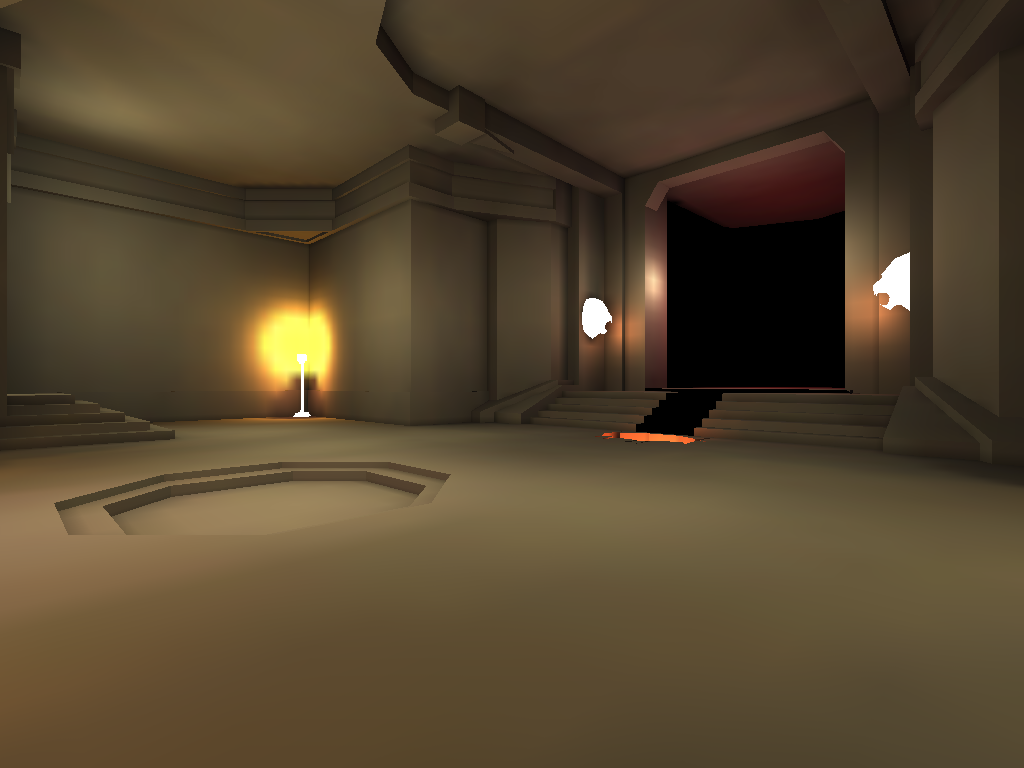
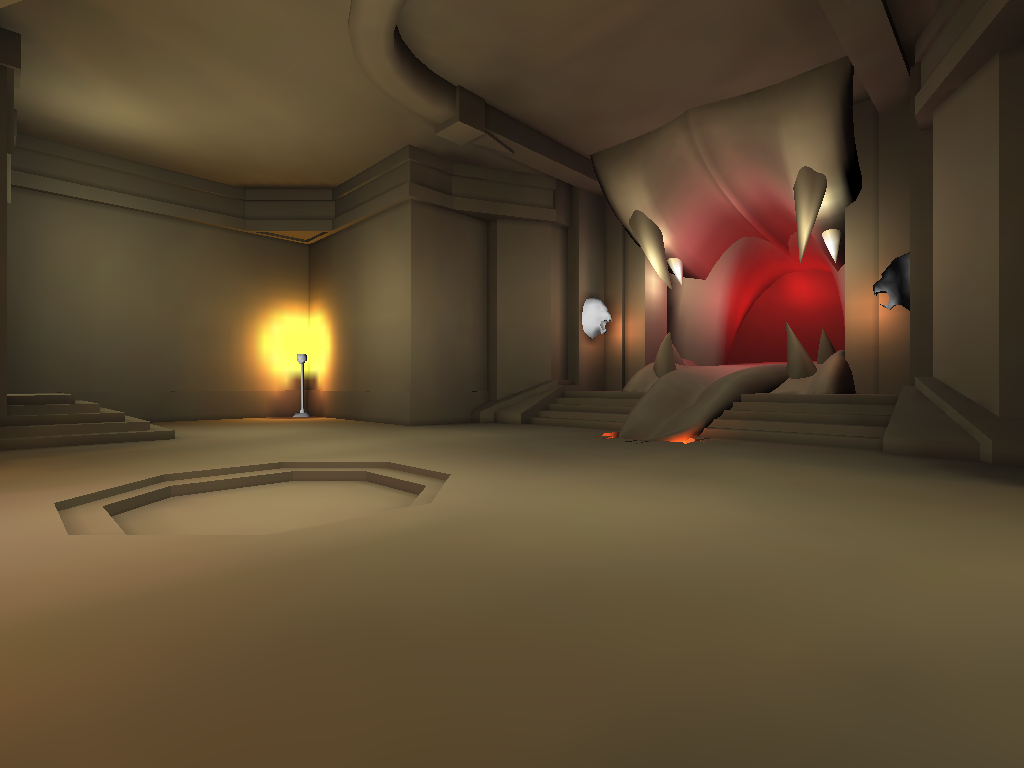
Improved bezier patches

diff --git a/src/bsp.c b/src/bsp.c
@@ -209,14 +209,15 @@ int setup_opengl(int w, int h)
 	return 0;
 }
 /***
+Curves
 	1	2	3
-	+---c---+---c---+
-	|   |   |   |   |
-	|   |   |   |   |
-	c---c---c---c---c
-	|   |   |   |   |
-	|   |   |   |   |
-	c---c---c---c---c
+C0	+---c---+
+	|   |   |
+	|   |   |
+C1	c---c---c
+	|   |   |
+	|   |   |
+C2	+---c---+
 
 	0	1	2
 	0.--1---2.--3---4.
@@ -233,11 +234,175 @@ int setup_opengl(int w, int h)
 	|   |   |   |   |
 	20.-21--22.-23--24.
 ***/
+#define LERP(a,b,t) (a+(b-a)*t)
+
+void curve(float c[3], struct bsp_vertex *v, float t)
+{
+	float cp[3], sp[3], ep[3];
+	float s2c[3]; // start to control
+	float c2e[3]; // control to end
+
+	// control point
+	cp[0] = v[1].position[0];
+	cp[1] = v[1].position[1];
+	cp[2] = v[1].position[2];
+	// start point
+	sp[0] = v[0].position[0];
+	sp[1] = v[0].position[1];
+	sp[2] = v[0].position[2];
+      	// end point
+	ep[0] = v[2].position[0];
+	ep[1] = v[2].position[1];
+	ep[2] = v[2].position[2];
+
+	s2c[0] = LERP(sp[0], cp[0], t);
+	s2c[1] = LERP(sp[1], cp[1], t);
+	s2c[2] = LERP(sp[2], cp[2], t);
+	c2e[0] = LERP(cp[0], ep[0], t);
+	c2e[1] = LERP(cp[1], ep[1], t);
+	c2e[2] = LERP(cp[2], ep[2], t);
+
+	c[0] = LERP(s2c[0], c2e[0], t);
+	c[1] = LERP(s2c[1], c2e[1], t);
+	c[2] = LERP(s2c[2], c2e[2], t);
+}
+
+void texlerp(float tc0[2], float tc1[2], float tc2[2], float tc3[2]
+		, float fx, float fy, float *s, float *t)
+{
+	/***
+	0-----1
+	|     |
+	|     |
+     fy |-----| fy
+	|     |
+	3-----2
+	***/
+
+	float lefty,righty;
+	float topx, bottomx;
+
+	lefty = LERP(tc0[1], tc3[1], fy);
+	righty = LERP(tc1[1], tc2[1], fy);
+	topx = LERP(tc0[0], tc1[0], fx);
+	bottomx = LERP(tc3[0], tc2[0], fx);
+	*s = LERP(topx, bottomx, fy);
+	*t = LERP(lefty, righty, fx);
+}
+
+#define STEPS 8
+void drawPatch2(int w, int h, struct bsp_vertex *verts, int n_verts)
+{
+	int pw = (w-1)/2;
+	int ph = (h-1)/2;
+	int i,j;
+	float step_size = 1.0f /(STEPS);
+
+//glColor3f(1,0,0);
+	glPointSize(4);
+	glBegin(GL_TRIANGLES);
+	for (i=0; i<pw*ph; i++) {
+		int px = i%pw;
+		int py = i/pw;
+		int pind_x = px*2;
+		int pind_y = (py*2)*w;
+		int index = pind_x+pind_y;
+		struct bsp_vertex *v;
+		struct bsp_vertex *ov[4]; /*original 4 verts at corners of patch*/
+		ov[3] = &verts[index];
+		ov[2] = &verts[index+2];
+		ov[1] = &verts[index+2+(w*2)];
+		ov[0] = &verts[index+(w*2)];
+
+		v = &verts[index];
+		glDisable(GL_CULL_FACE);
+
+		for (j=0; j<STEPS*STEPS; j++) {
+			float fx[4];
+			float fy[4];
+			fx[0] = (j%STEPS) * step_size;
+			fx[1] = (j%STEPS) * step_size+step_size;
+			fx[2] = (j%STEPS) * step_size+step_size;
+			fx[3] = (j%STEPS) * step_size;
+
+			fy[0] = (j/STEPS) * step_size;
+			fy[1] = (j/STEPS) * step_size;
+			fy[2] = (j/STEPS) * step_size+step_size;
+			fy[3] = (j/STEPS) * step_size+step_size;
+			/***
+				0 1 2
+				3 4 5
+				6 7 8
+			***/
+			float c[3][3];
+			float f[4][3];
+			struct bsp_vertex cv[3];
+			int k;
+			for (k=0;k<4;k++) {
+				float l_fx = fx[k];
+				float l_fy = fy[k];
+				curve(c[0], &v[0], l_fx);
+				curve(c[1], &v[0+w], l_fx);
+				curve(c[2], &v[0+w*2], l_fx);
+				cv[0].position[0] = c[0][0];
+				cv[0].position[1] = c[0][1];
+				cv[0].position[2] = c[0][2];
+				cv[1].position[0] = c[1][0];
+				cv[1].position[1] = c[1][1];
+				cv[1].position[2] = c[1][2];
+				cv[2].position[0] = c[2][0];
+				cv[2].position[1] = c[2][1];
+				cv[2].position[2] = c[2][2];
+				curve(f[k], cv, l_fy);
+			}
+			//Texture coords
+			float tc0[2];
+			float tc1[2];
+			float tc2[2];
+			float tc3[2];
+			float tcf[4][2];
+			float s[4],t[4];
+
+			tc3[0] = ov[0]->texcoord[1][0];
+			tc3[1] = ov[0]->texcoord[1][1];
+			tc2[0] = ov[1]->texcoord[1][0];
+			tc2[1] = ov[1]->texcoord[1][1];
+			tc1[0] = ov[2]->texcoord[1][0];
+			tc1[1] = ov[2]->texcoord[1][1];
+			tc0[0] = ov[3]->texcoord[1][0];
+			tc0[1] = ov[3]->texcoord[1][1];
+
+			texlerp(tc0, tc1, tc2, tc3, fx[0], fy[0], &s[0], &t[0]);
+			texlerp(tc0, tc1, tc2, tc3, fx[1], fy[1], &s[1], &t[1]);
+			texlerp(tc0, tc1, tc2, tc3, fx[2], fy[2], &s[2], &t[2]);
+			texlerp(tc0, tc1, tc2, tc3, fx[3], fy[3], &s[3], &t[3]);
+
+			//Top
+			glTexCoord2f(s[3], t[3]);
+			glVertex3f(f[3][0], f[3][1], f[3][2]);
+			glTexCoord2f(s[1], t[1]);
+			glVertex3f(f[1][0], f[1][1], f[1][2]);
+			glTexCoord2f(s[0], t[0]);
+			glVertex3f(f[0][0], f[0][1], f[0][2]);
+			// Bottom
+			glTexCoord2f(s[3], t[3]);
+			glVertex3f(f[3][0], f[3][1], f[3][2]);
+			glTexCoord2f(s[2], t[2]);
+			glVertex3f(f[2][0], f[2][1], f[2][2]);
+			glTexCoord2f(s[1], t[1]);
+			glVertex3f(f[1][0], f[1][1], f[1][2]);
+		}
+	}
+	glEnd();
+glColor3f(1,1,1);
+}
 void drawPatch(int w, int h, struct bsp_vertex *verts, int n_verts)
 {
 	int pw = (w-1)/2;
 	int ph = (h-1)/2;
 	int i;
+	float step_size = 1.0f /STEPS;
+
 glColor3f(1,0,0);
 	for (i=0; i<pw*ph; i++) {
 		int px = i%pw;
@@ -305,7 +470,10 @@ void drawBspFace(struct bsp_face *face, struct bsp *bsp)
 			}
 			break;
 		case 2: /*Patch - is not in the mesh verts?*/
-			drawPatch(face->size[0],face->size[1], &vertices[face->vertex], face->n_vertexes);
+			if (face->lm_index >= 0)
+				glBindTexture(GL_TEXTURE_2D, lm_texture_ids[face->lm_index]);
+			else glBindTexture(GL_TEXTURE_2D,0);
+			drawPatch2(face->size[0],face->size[1], &vertices[face->vertex], face->n_vertexes);
 			
 			break;
 	}
